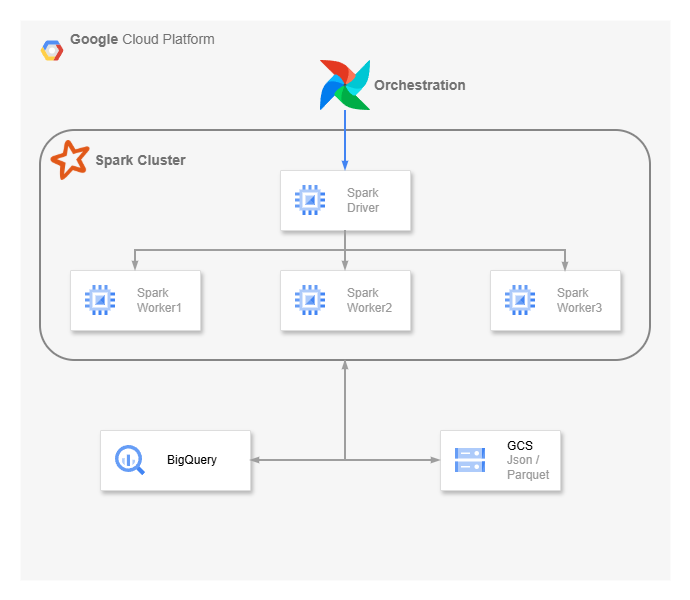
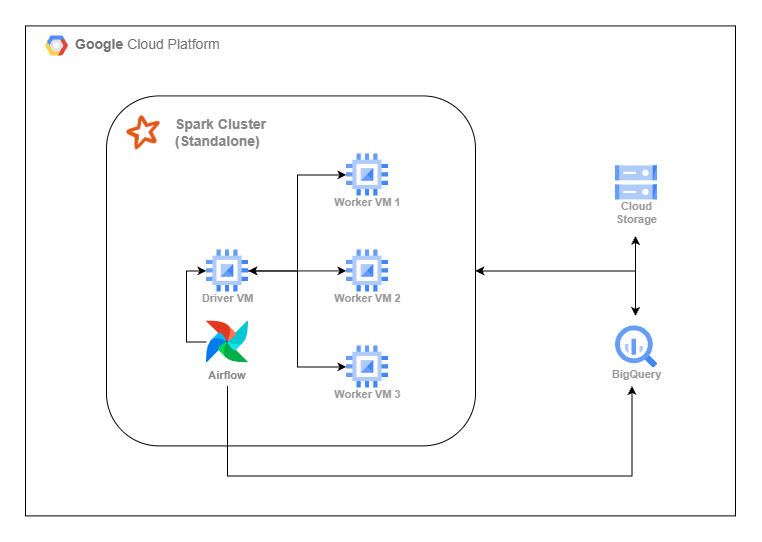
chore: update README.md

diff --git a/README.md b/README.md
@@ -1,51 +1,91 @@
-# spark-pipeline
-🚌 서울시 공공데이터를 이용하여 버스 운행 정보를 수집하고 Spark를 이용하여 최종적으로 BigQuery에 테이블 형태로 적재하는 파이프라인 입니다.
+# 개요
+## spark-pipeline
+Google Cloud에 Spark Cluster를 구축하고 서울시 버스 데이터를 이용하여 Spark 파이프라인을 설계하는 프로젝트
 
-[Project Notion Documentation](https://www.notion.so/Spark-Pipeline-313103c0763380bbb113cba515c083b9?source=copy_link)
+[프로젝트 기록 노션 페이지](https://www.notion.so/Spark-Pipeline-313103c0763380bbb113cba515c083b9?source=copy_link)
 
-## 🛠 주요 기술 및 버전
-```plaintext
-python: 3.12.3 (GCP Compute Engine VM)
-spark: 3.5.8
-scala: 2.12.18
-jdk: 17.0.18
-apache-airflow: 3.1.7 (Docker)
-```
+## 사용 기술
+![Python](https://img.shields.io/badge/Python-%233670A0.svg?style=flat&logo=python&logoColor=ffdd54)
+![Apache Spark](https://img.shields.io/badge/Apache%20Spark-%23E25A1C.svg?style=flat&logo=apachespark&logoColor=white)
+![Apache Airflow](https://img.shields.io/badge/Apache%20Airflow-%23017CEE.svg?style=flat&logo=Apache%20Airflow&logoColor=white)
+![Google Cloud](https://img.shields.io/badge/Google%20Cloud-%234285F4.svg?style=flat&logo=google-cloud&logoColor=white)
 
-## 🚀 Data Pipeline Flow
-1. **서울시 공공데이터를 API를 이용하여 수집**
-- [서울 열린데이터 광장](https://data.seoul.go.kr/)
-    - **월간**
-        - 서울시 노선 정류장마스터 정보
-        - 서울시 정류장마스터 정보
-        - 서울시 노선마스터 정보
-    - **일간**
-        - 행정동 단위 서울 생활인구(내국인)
-        - 서울시 버스노선별 정류장별 승하차 인원 정보
-        - 서울시 노선별 정류장별 총 버스 운행횟수 정보
-        - 서울시 행정동별 버스 총 승차 승객수 정보
-    - **+ 행정동 경계 데이터**
-        - https://github.com/vuski/admdongkor
-2. **Raw Data를 .json 형태로 적재 (GCS)**
-3. **전처리 및 .parquet 형태로 적재 (GCS)**
-4. **Star Schema(Fact/Dimension) 형태로 BigQuery에 적재**
-5. **Airflow를 이용한 전체 Spark Cluster 운영 및 파이프라인 자동화**
-6. **Spark SQL을 이용하여 ML 훈련을 위한 테이블 생성**
-7. **각 노선의 정류장별 버스 운행 효율성을 예측하는 ML Pipeline 구성**
-
-### 프로젝트 구조
+## 프로젝트 구조도
 ![architecture](imgs/architecture.png)
+- 클러스터는 4개의 서버로 구성
+    - Standalone, Client Mode로 구동
+    - Airflow는 Driver 서버에 Docker Container로 위치하여, SSH를 이용해 Spark 작업 제출
 
-## 👀 Key Features
-- **Spark Cluster**: 1Driver - 3Worker 형태로 GCP에서 구성
-- **Testing**: Pytest를 이용하여 Parquet 파일의 스키마 일치 여부 및 필수 컬럼의 유효성 검사
+## 사용 데이터
+[서울 열린데이터 광장](https://data.seoul.go.kr/)
+- **월간 수집 데이터**
+    - 서울시 정류장 마스터 정보
+    - 서울시 버스노선별 정류장별 시간대별 승하차 인원 정보
+    - 서울시 버스노선 기본정보 항목정보
+- **일간 수집 데이터**
+    - 서울시 버스노선별 정류장별 승하차 인원 정보
+    - 서울시 노선별 정류장별 총 버스 운행횟수 정보
+    - 서울시 행정동별 버스 총 승차 승객수 정보
+- **기타 데이터**
+    - [대한민국 행정동 경계 파일](https://github.com/vuski/admdongkor)
 
-## 📂 Project Structure
-```plaintext
-├── airflow_dags/
-├── imgs/
-├── python_scripts/
-├── spark_scripts/
-├── tests/             # pytest Scripts
-└── requirements.txt   # pytest를 위해 가상 환경에서 필요한 라이브러리
+---
+
+# 프로젝트 상세
+## 디렉터리 구분
+```text
+spark-pipeline
+   ├── airflow_dags/    # Airlfow 코드
+   ├── spark_scripts/   # Spark 코드
+   ├── tests/           # 데이터 표준화 테스트 코드
+   └── imgs/            # 프로젝트 관련 이미지
 ```
+
+## 데이터 파이프라인 구성
+### DAG 타임라인 및 데이터 변화 흐름
+![dag_timeline](imgs/DAG_timeline.png)
+**데이터 표준화(parquet 변환) 과정**
+- Partition Pruning을 위해 Airflow의 Logical Date를 `dt` 컬럼으로 사용
+- parquet 파일의 **스키마 검증** 및 **타입 변환 컬럼의 Null값 여부**를 탐지하는 테스트를 함께 수행(pytest 기반, `tests/` 디렉터리)
+    - 테스트는 Driver 서버에서만 실행
+    - pytest의 fixture를 이용하여 SparkSession을 한 번만 생성하고 모든 테스트에서 나눠쓰도록 함
+
+**BigQuery 주요 테이블 목록:**
+- **차원 테이블(Dimension Table)**:
+    - `dim_route`: 버스 노선 차원
+    - `dim_stop`: 버스 정류장 차원
+    - 대체키(Surrogate Key)사용
+    - SCD Type 2 형식으로 사용되도록 `IS_CURRENT`, `START_DATE`, `END_DATE`, `SK` 네 개의 컬럼을 추가함
+    - `MERGE` 문을 이용하여 차원 테이블의 `UPSERT` 로직 설계
+- **팩트 테이블(Fact Table)**:
+    - `fact_dong_hour_passenger`: 행정동별 시간별 승객 수
+    - `fact_route_stop_passenger_opr`: 노선별 정류장별 승객 수 및 운행 수
+
+### 스케줄 외 작업 (수동 실행)
+- **`dim_ding`**
+    - Spark 코드로만 작성됨
+    - 행정동 차원 테이블
+    - `GEOMETRY` 컬럼을 GEOGRAPHY 타입으로 직접 변경해야 함
+- **`ml_pipeline.py`**
+    - Airflow DAG(`Schedule = None`)
+    - **노선별 정류장별 버스 운행 효율성**을 예측하는 모델을 훈련
+        - 운행 효율성: `(승차 승객 + 하차 승객) / 운행 수`
+    - 모델 훈련에 사용될 테이블을 Spark 작업으로 생성 (`feature_route_stop_psng_opr`)
+    - 타겟 변수, 파생 변수는 BigQueryOeprator로 생성
+    - 모델 훈련, 테스트 및 모델 저장 (`ml_pipeline_spark.py`)
+
+---
+### 기타 - 주요 Spark 설정
+- `spark.master: 10.128.0.2`
+    - Spark 작업을 자동으로 클러스터에서 실행하도록 함
+- `spark.driver.port: 7078`
+- `spark.blockManager.port: 7079`
+- `spark.port.maxRetreis: 3`
+    - 허용된 포트(7078 ~ 7091) 안에서만 작업이 수행되도록 함
+    - 동시에 최대 3개의 작업만 허용
+- `spark.sql.shuffle.partitions: 6`
+    - 클러스터의 최대 코어 수와 매칭(Worker 서버 코어 각 2개, 총 6개)
+- `spark.worker.cleanup.interval: 600`
+- `spark.worker.cleanup.appDataTtl: 86400`
+    - 저장공간 부족으로 인한 운영 장애를 예방하기 위한 설정
+    - 10(600)분 주기로 1일(86400)이 지난 로그 파일을 제거
